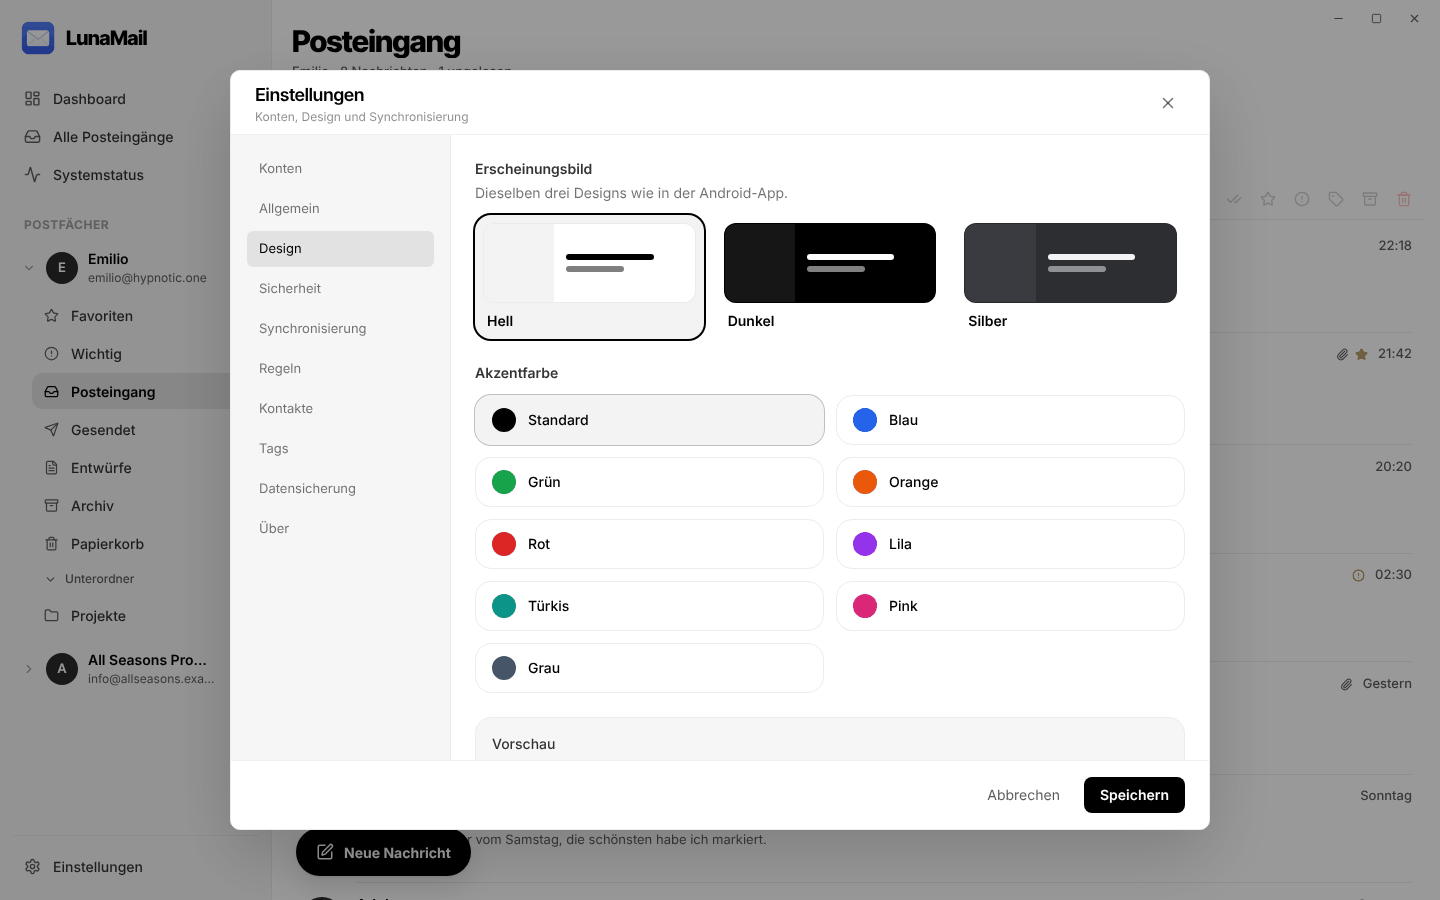
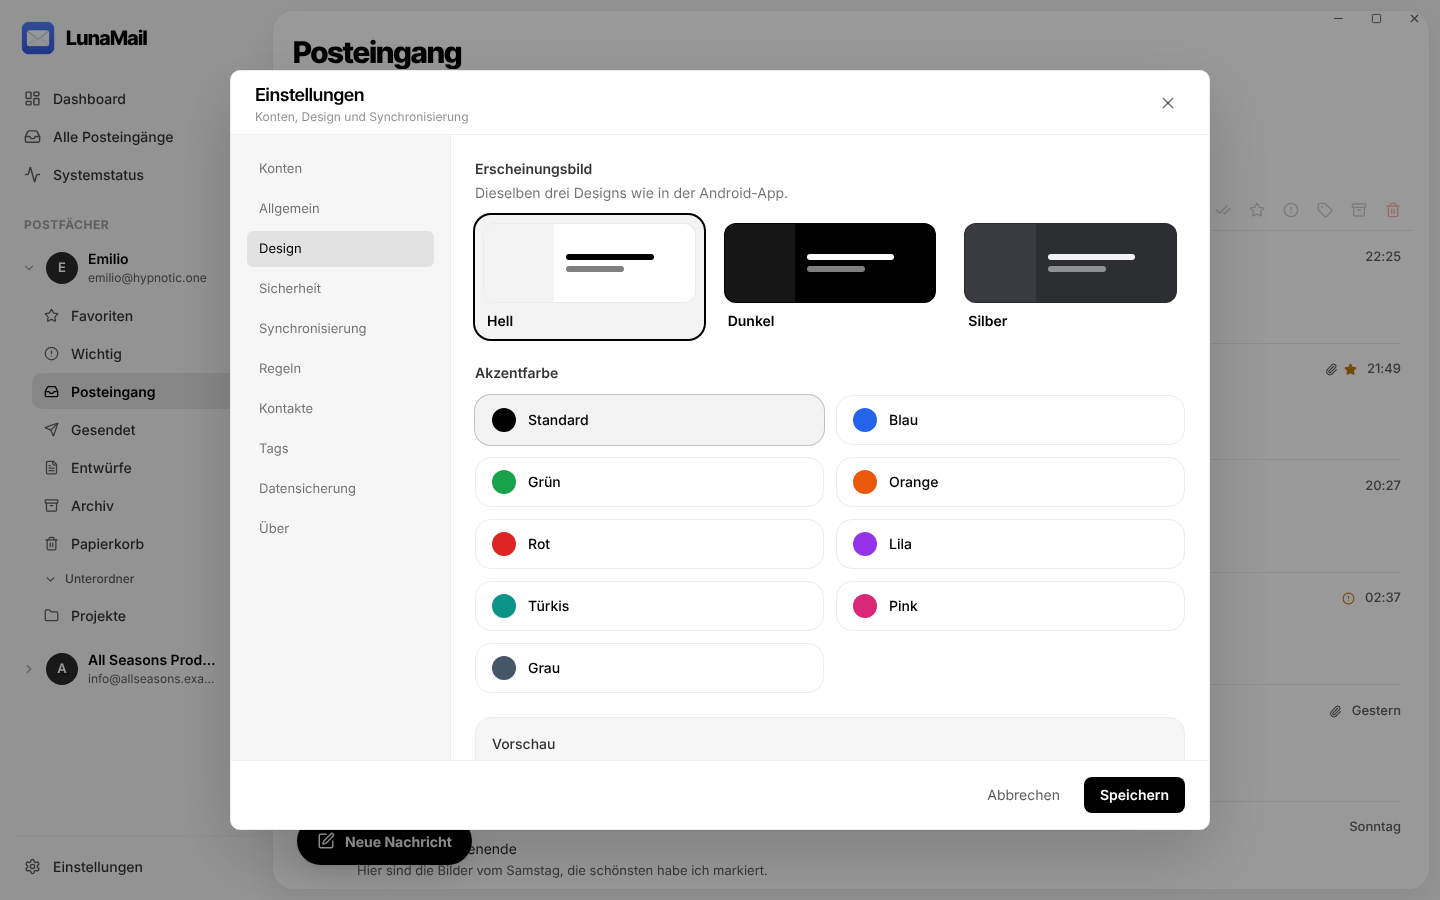
Desktop: neues Dashboard, Inhaltsfläche wieder als abgerundete Karte
Claude-Session: https://claude.ai/code/session_015oPpCaztH1SDtHgZpMPuwL

diff --git a/src/components/Dashboard.tsx b/src/components/Dashboard.tsx
@@ -1,0 +1,223 @@
+import { AlertCircle, CalendarClock, Inbox, RefreshCw, Star } from "lucide-react";
+import { useEffect, useMemo, useState } from "react";
+import type { ReactNode } from "react";
+import { useShallow } from "zustand/react/shallow";
+import { cn } from "../lib/cn";
+import { mailService } from "../services/mailService";
+import { useMailStore } from "../stores/mailStore";
+import type { Email, MailCounts } from "../types";
+
+const UNREAD_PREVIEW_COUNT = 5;
+
+/** Startseite: Begrüßung, wichtigste Zahlen, neueste ungelesene Mails und Kontostatus. */
+export function Dashboard() {
+  const {
+    accounts, folders, mailCounts, healthStatus, lastSyncAt, syncing, databaseSizeBytes,
+    sync, selectEmail, openUnifiedInbox, selectSpecialView
+  } = useMailStore(useShallow((state) => ({
+    accounts: state.accounts,
+    folders: state.folders,
+    mailCounts: state.mailCounts,
+    healthStatus: state.healthStatus,
+    lastSyncAt: state.lastSyncAt,
+    syncing: state.syncing,
+    databaseSizeBytes: state.databaseSizeBytes,
+    sync: state.sync,
+    selectEmail: state.selectEmail,
+    openUnifiedInbox: state.openUnifiedInbox,
+    selectSpecialView: state.selectSpecialView
+  })));
+  const [counts, setCounts] = useState<MailCounts>(mailCounts);
+  const [unreadMails, setUnreadMails] = useState<Email[]>([]);
+
+  // Zahlen und Liste über alle Konten, unabhängig vom zuletzt gewählten Konto.
+  useEffect(() => {
+    let active = true;
+    void Promise.all([
+      mailService.getMailCounts(undefined),
+      mailService.getEmails(undefined, undefined, "unified_inbox", undefined, { unreadOnly: true })
+    ]).then(([nextCounts, emails]) => {
+      if (!active) return;
+      setCounts(nextCounts);
+      setUnreadMails(emails.slice(0, UNREAD_PREVIEW_COUNT));
+    }).catch(() => undefined);
+    return () => {
+      active = false;
+    };
+  }, [accounts.length, folders, lastSyncAt]);
+
+  const unreadByAccount = useMemo(() => {
+    const totals = new Map<number, number>();
+    for (const folder of folders) totals.set(folder.accountId, (totals.get(folder.accountId) ?? 0) + folder.unreadCount);
+    return totals;
+  }, [folders]);
+  const runtimeByAccount = useMemo(
+    () => new Map((healthStatus?.sync.accounts ?? []).map((status) => [status.accountId, status])),
+    [healthStatus]
+  );
+  const firstAccountId = accounts[0]?.id ?? 0;
+  const firstName = (accounts.find((account) => account.isDefault) ?? accounts[0])?.displayName.split(" ")[0];
+  const accountsWithUnread = [...unreadByAccount.values()].filter((count) => count > 0).length;
+
+  return (
+    <section className="mail-scroll flex h-full min-h-0 flex-col gap-6 overflow-y-auto px-6 pb-28 pt-10 lg:px-10">
+      <header className="flex flex-wrap items-end justify-between gap-4">
+        <div>
+          <p className="text-[13px] font-semibold text-label-2">{new Date().toLocaleDateString("de-DE", { weekday: "long", day: "numeric", month: "long" })}</p>
+          <h1 className="mt-1 font-display text-[38px] font-extrabold leading-[42px]">{greeting()}{firstName ? `, ${firstName}` : ""}</h1>
+          <p className="mt-1.5 text-[15px] text-label-2">
+            {accounts.length === 0
+              ? "Verbinde in den Einstellungen ein E-Mail-Konto, um loszulegen."
+              : counts.unread > 0
+                ? `Du hast ${counts.unread} ungelesene ${counts.unread === 1 ? "Mail" : "Mails"}${accountsWithUnread > 1 ? ` in ${accountsWithUnread} Konten` : ""}.`
+                : "Alles gelesen. Schönen Feierabend!"}
+          </p>
+        </div>
+        <button
+          className="inline-flex h-10 items-center gap-2 rounded-full bg-surface px-4 text-[14px] font-semibold transition hover:bg-surface-2 disabled:opacity-40"
+          disabled={accounts.length === 0 || syncing}
+          onClick={() => void sync(true)}
+        >
+          <RefreshCw size={16} className={syncing ? "animate-spin" : undefined} />
+          {syncing ? "Synchronisiere …" : "Synchronisieren"}
+        </button>
+      </header>
+
+      <div className="grid grid-cols-2 gap-3 xl:grid-cols-4">
+        <StatTile label="Ungelesen" value={counts.unread} hint="Anzeigen" icon={<Inbox size={18} />} inverse onClick={() => void openUnifiedInbox()} />
+        <StatTile label="Heute" value={counts.today} hint="Neue Mails" icon={<CalendarClock size={18} />} onClick={() => void openUnifiedInbox()} />
+        <StatTile label="Favoriten" value={counts.favorites} hint="Anzeigen" icon={<Star size={18} />} onClick={() => void selectSpecialView("favorites", firstAccountId)} />
+        <StatTile label="Wichtig" value={counts.important} hint="Anzeigen" icon={<AlertCircle size={18} />} onClick={() => void selectSpecialView("important", firstAccountId)} />
+      </div>
+
+      <div className="flex flex-col items-start gap-4 xl:flex-row">
+        <section className="w-full min-w-0 rounded-[22px] border border-line p-5 xl:flex-[1.6]">
+          <div className="mb-2 flex items-center justify-between">
+            <h2 className="font-display text-[20px] font-extrabold">Neu für dich</h2>
+            <button className="text-[13px] font-semibold text-label-2 hover:text-ink" onClick={() => void openUnifiedInbox()}>Alle Posteingänge</button>
+          </div>
+          {unreadMails.length === 0 ? <p className="py-6 text-center text-[14px] text-label-2">Keine ungelesenen Mails.</p> : null}
+          {unreadMails.map((email, index) => (
+            <button
+              key={email.id}
+              className={cn("flex w-full items-center gap-3 rounded-[14px] px-2 py-2.5 text-left transition-colors hover:bg-ink/[0.03]", index < unreadMails.length - 1 && "border-b border-line")}
+              onClick={() => void selectEmail(email)}
+            >
+              <span className="flex h-10 w-10 shrink-0 items-center justify-center rounded-full bg-[#2A2A2A] text-[14px] font-semibold text-white">{initials(senderName(email.sender))}</span>
+              <span className="min-w-0 flex-1">
+                <span className="flex items-center gap-2">
+                  <span className="min-w-0 flex-1 truncate text-[14px] font-bold">{senderName(email.sender)}</span>
+                  <time className="shrink-0 text-[12px] font-medium text-label-2">{formatShortTime(email.receivedAt)}</time>
+                </span>
+                <span className="block truncate text-[13px] text-label-2">{email.subject || "(Kein Betreff)"}</span>
+              </span>
+            </button>
+          ))}
+        </section>
+
+        <div className="flex w-full min-w-0 flex-col gap-4 xl:flex-1">
+          <section className="rounded-[22px] border border-line p-5">
+            <h2 className="mb-2 font-display text-[20px] font-extrabold">Konten</h2>
+            {accounts.length === 0 ? <p className="py-2 text-[14px] text-label-2">Noch kein Konto verbunden.</p> : null}
+            {accounts.map((account) => {
+              const runtime = runtimeByAccount.get(account.id);
+              const failed = Boolean(runtime?.lastSyncError);
+              const status = failed ? "Fehler bei der Synchronisierung" : runtime?.idleActive ? "Verbunden · Push aktiv" : "Verbunden";
+              return (
+                <div key={account.id} className="flex items-center gap-3 py-2.5">
+                  <span className="flex h-9 w-9 shrink-0 items-center justify-center rounded-full bg-[#2A2A2A] text-[14px] font-semibold text-white">{(account.displayName || account.email).charAt(0).toUpperCase()}</span>
+                  <span className="min-w-0 flex-1">
+                    <span className="block truncate text-[14px] font-semibold">{account.email}</span>
+                    <span className="flex items-center gap-1.5 text-[12px] text-label-2">
+                      <span className={cn("h-[7px] w-[7px] rounded-full", failed ? "bg-danger" : "bg-[#16A34A]")} />
+                      {status}
+                    </span>
+                  </span>
+                  <span className="min-w-7 rounded-full bg-surface px-2 py-0.5 text-center text-[12px] font-bold">{unreadByAccount.get(account.id) ?? 0}</span>
+                </div>
+              );
+            })}
+          </section>
+          <section className="rounded-[22px] bg-surface p-5">
+            <h2 className="font-display text-[20px] font-extrabold">Diese Woche</h2>
+            <div className="mt-3.5 grid grid-cols-3 gap-2">
+              <WeekValue label="Empfangen" value={counts.thisWeek} />
+              <WeekValue label="Heute" value={counts.today} />
+              <WeekValue label="Mit Anhang" value={counts.withAttachments} />
+            </div>
+            <p className="mt-3.5 text-[12px] text-label-2">
+              {lastSyncAt ? `Letzte Synchronisierung ${new Date(lastSyncAt).toLocaleString("de-DE", { dateStyle: "short", timeStyle: "short" })}` : "Noch nicht synchronisiert"} · {formatBytes(databaseSizeBytes)} lokal
+            </p>
+          </section>
+        </div>
+      </div>
+    </section>
+  );
+}
+
+function StatTile({ label, value, hint, icon, inverse = false, onClick }: { label: string; value: number; hint: string; icon: ReactNode; inverse?: boolean; onClick: () => void }) {
+  return (
+    <button
+      className={cn(
+        "flex h-[132px] flex-col justify-between rounded-[22px] px-5 py-[18px] text-left transition hover:-translate-y-0.5",
+        inverse ? "bg-ink text-canvas" : "bg-surface text-ink hover:bg-surface-2"
+      )}
+      onClick={onClick}
+    >
+      <span className="flex w-full items-center justify-between text-[14px] font-semibold">
+        {label}
+        {icon}
+      </span>
+      <span className="flex w-full items-end justify-between">
+        <span className="font-display text-[44px] font-extrabold leading-[44px]">{value}</span>
+        <span className="text-[12px] font-semibold opacity-70">{hint}</span>
+      </span>
+    </button>
+  );
+}
+
+function WeekValue({ label, value }: { label: string; value: number }) {
+  return (
+    <div>
+      <div className="font-display text-[24px] font-extrabold">{value}</div>
+      <div className="text-[12px] text-label-2">{label}</div>
+    </div>
+  );
+}
+
+function greeting(date = new Date()) {
+  const hour = date.getHours();
+  if (hour < 11) return "Guten Morgen";
+  if (hour < 18) return "Guten Tag";
+  return "Guten Abend";
+}
+
+function senderName(sender: string) {
+  const name = sender.replace(/<[^>]*>/g, "").replace(/["']/g, "").trim();
+  return name || sender.match(/<([^>]+)>/)?.[1] || sender || "Unbekannter Absender";
+}
+
+function initials(name: string) {
+  const parts = name.split(/[\s._-]+/).filter((part) => /\p{L}/u.test(part.charAt(0)));
+  return parts.slice(0, 2).map((part) => part.charAt(0).toUpperCase()).join("") || name.charAt(0).toUpperCase() || "?";
+}
+
+function formatShortTime(value: string) {
+  const date = new Date(value);
+  const sameDay = date.toDateString() === new Date().toDateString();
+  return sameDay
+    ? date.toLocaleTimeString("de-DE", { hour: "2-digit", minute: "2-digit" })
+    : date.toLocaleDateString("de-DE", { day: "2-digit", month: "2-digit" });
+}
+
+function formatBytes(value: number): string {
+  if (value <= 0) return "0 B";
+  const units = ["B", "KB", "MB", "GB"];
+  let current = value;
+  let unit = 0;
+  while (current >= 1024 && unit < units.length - 1) {
+    current /= 1024;
+    unit += 1;
+  }
+  return `${current.toFixed(unit === 0 ? 0 : 1)} ${units[unit]}`;
+}

diff --git a/src/components/MailList.tsx b/src/components/MailList.tsx
@@ -12,7 +12,7 @@ const PAGE_SIZE = 30;
 export function MailList() {
   const {
     accounts, folders, emails, selectedEmail, selectedFolderId, selectedView, selectedEmailIds,
-    selectedCategoryId, categories, query, mailCounts, syncStatus, lastSyncAt, databaseSizeBytes,
+    selectedCategoryId, categories, query, databaseSizeBytes,
     healthStatus, search, selectCategory, selectEmail, toggleEmailSelection, setEmailSelection,
     deleteSelected, markReadSelected, archiveSelected, toggleFavoriteSelected, toggleImportantSelected,
     quickAction, sync, loading, hasSynced, syncError, settings, tags, searchFilters, setSearchFilters, setSelectedEmailTags
@@ -27,9 +27,6 @@ export function MailList() {
     selectedCategoryId: state.selectedCategoryId,
     categories: state.categories,
     query: state.query,
-    mailCounts: state.mailCounts,
-    syncStatus: state.syncStatus,
-    lastSyncAt: state.lastSyncAt,
     databaseSizeBytes: state.databaseSizeBytes,
     healthStatus: state.healthStatus,
     search: state.search,
@@ -68,9 +65,7 @@ export function MailList() {
   const selectedFolder = selectedView === "folder" ? folders.find((folder) => folder.id === selectedFolderId) : undefined;
   const title = selectedFolder ? folderLabel(selectedFolder) : viewTitle(selectedView, selectedCategoryId);
   const unreadCount = useMemo(() => emails.filter((email) => !email.isRead).length, [emails]);
-  const subtitle = selectedView === "dashboard"
-    ? "Deine Konten auf einen Blick"
-    : selectedView === "health"
+  const subtitle = selectedView === "health"
       ? "Lokaler Status und Synchronisation"
       : selectedCount > 0
         ? `${selectedCount} ausgewählt`
@@ -184,20 +179,6 @@ export function MailList() {
             onDelete={() => void deleteSelected()}
           />
         </>
-      ) : null}
-
-      {selectedView === "dashboard" ? (
-        <div className="mail-scroll grid min-h-0 flex-1 auto-rows-min grid-cols-2 gap-3 overflow-y-auto px-1 pb-24 pt-2 xl:grid-cols-3">
-          <DashboardCard label="Ungelesen" value={mailCounts.unread} icon={<CheckCheck size={17} />} />
-          <DashboardCard label="Favoriten" value={mailCounts.favorites} icon={<Star size={17} />} />
-          <DashboardCard label="Wichtig" value={mailCounts.important} icon={<AlertCircle size={17} />} />
-          <DashboardCard label="Mit Anhang" value={mailCounts.withAttachments} icon={<Paperclip size={17} />} />
-          <DashboardCard label="Heute" value={mailCounts.today} />
-          <DashboardCard label="Diese Woche" value={mailCounts.thisWeek} />
-          <DashboardCard label="Konten" value={accounts.length} />
-          <DashboardCard label="Datenbankgröße" value={formatBytes(databaseSizeBytes)} compact />
-          <DashboardCard label="Letzte Synchronisierung" value={lastSyncAt ? new Date(lastSyncAt).toLocaleString("de-DE") : (syncStatus || "–")} compact />
-        </div>
       ) : null}
 
       {selectedView === "health" ? (

diff --git a/src/layouts/AppLayout.tsx b/src/layouts/AppLayout.tsx
@@ -1,5 +1,6 @@
 import { Minus, Square, SquarePen, X } from "lucide-react";
 import { useShallow } from "zustand/react/shallow";
+import { Dashboard } from "../components/Dashboard";
 import { MailList } from "../components/MailList";
 import { MailReader } from "../components/MailReader";
 import { MailSidebar } from "../components/MailSidebar";
@@ -8,8 +9,9 @@ import { mailService } from "../services/mailService";
 import { useMailStore } from "../stores/mailStore";
 
 export function AppLayout() {
-  const { accounts, openComposer } = useMailStore(useShallow((state) => ({
+  const { accounts, selectedView, openComposer } = useMailStore(useShallow((state) => ({
     accounts: state.accounts,
+    selectedView: state.selectedView,
     openComposer: state.openComposer
   })));
   const hasAccounts = accounts.length > 0;
@@ -31,11 +33,11 @@ export function AppLayout() {
         </div>
       ) : null}
 
-      <section className="tr-shell flex h-full min-h-0 overflow-hidden">
+      <section className="tr-shell flex h-full min-h-0 overflow-hidden bg-sidebar">
         <MailSidebar />
-        <div className="app-workspace relative flex min-w-0 flex-1 overflow-hidden bg-canvas">
+        <div className="app-workspace relative flex min-w-0 flex-1 overflow-hidden bg-canvas lg:my-2.5 lg:mr-2.5 lg:rounded-[22px] lg:border lg:border-line lg:shadow-[0_8px_30px_rgb(0_0_0/0.06)]">
           <div className="relative min-w-0 flex-1 overflow-hidden">
-            <MailList />
+            {selectedView === "dashboard" ? <Dashboard /> : <MailList />}
           </div>
           <MailReader />
           <button

diff --git a/src/components/MailReader.tsx b/src/components/MailReader.tsx
@@ -11,9 +11,8 @@ const MAX_HTML_LENGTH = 150_000;
 const SAFE_LINK_SCHEME = /^(https:|mailto:|tel:)/i;
 
 export function MailReader() {
-  const { selectedEmail, selectedView, settings, contacts, closeEmail, replyToSelected, forwardSelected, archiveSelected, deleteSelected, saveContact } = useMailStore(useShallow((state) => ({
+  const { selectedEmail, settings, contacts, closeEmail, replyToSelected, forwardSelected, archiveSelected, deleteSelected, saveContact } = useMailStore(useShallow((state) => ({
     selectedEmail: state.selectedEmail,
-    selectedView: state.selectedView,
     settings: state.settings,
     contacts: state.contacts,
     closeEmail: state.closeEmail,
@@ -29,7 +28,6 @@ export function MailReader() {
     return sanitizeEmailHtml(selectedEmail.bodyHtml, settings.externalImages === "always");
   }, [selectedEmail?.bodyHtml, settings.externalImages]);
 
-  if (selectedView === "dashboard" || selectedView === "health") return null;
 
   if (!selectedEmail) return null;
 

diff --git a/src/components/MailSidebar.tsx b/src/components/MailSidebar.tsx
@@ -73,7 +73,7 @@ export function MailSidebar() {
   }
 
   return (
-    <aside className="flex min-h-0 w-[260px] shrink-0 flex-col border-r border-line bg-sidebar px-3 pb-4 pt-5 lg:w-[272px]">
+    <aside className="flex min-h-0 w-[260px] shrink-0 flex-col border-r border-line bg-sidebar lg:border-r-0 px-3 pb-4 pt-5 lg:w-[272px]">
       <div className="mb-6 flex items-center px-2">
         <button className="titlebar-no-drag flex items-center gap-2.5 text-left" onClick={openSettings} title="Einstellungen">
           <img src="./icon.png" alt="" className="h-9 w-9 object-contain" />

diff --git a/src/styles.css b/src/styles.css
@@ -124,7 +124,7 @@ select:focus-visible,
 
 .tr-shell {
   border: 0;
-  background: rgb(var(--canvas));
+  background: rgb(var(--sidebar));
 }
 
 .tr-panel {
